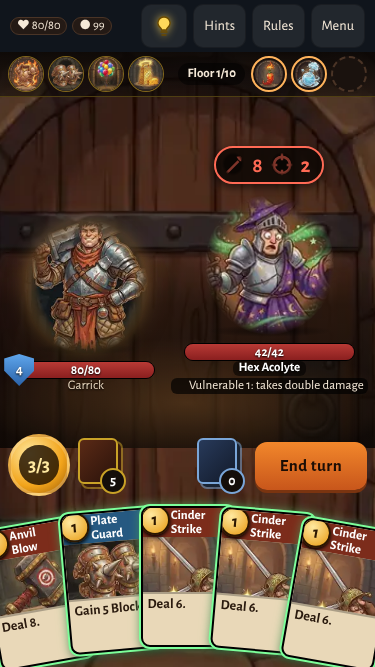
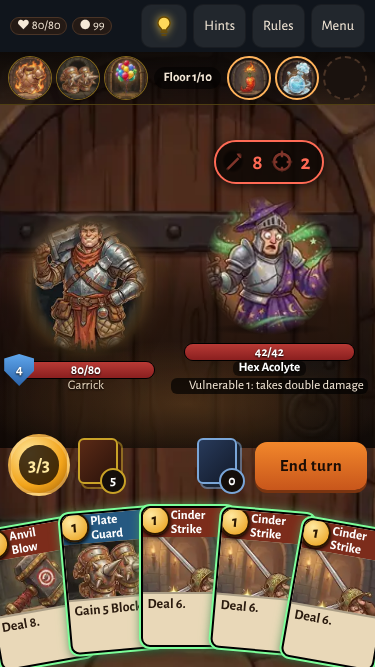
Emberclimb G3 round 2: 44px targets, potion Drink/Discard, upgrade preview, readable shop tiles, shorter tutorial, mid-act balance, boss phase 2
- relic, potion and intent targets 44px+ at 375x667 and 390x844 (new tools/probe-targets.js checks 11 screens)
- tapping a potion opens what it does + Drink (on a chosen foe if it targets) / Discard / Close; Discard is outside validMoves (logic rule 70)
- upgrade picker: tap a card to see it before and after, then Upgrade; 3-column grid on phones
- shop tiles show picture, name, type and cost, what it does, and price
- tutorial: 14 steps (was 29), 4 Next-only; the explanations moved into the doing steps
- later Encounter rooms keep one extra foe (D.STRONGX); act-1 boss HP 118-124; bench-newplayer.js reports the numbers
- bosses change to a second pattern at half HP with a Phase 2 banner, a re-planned intent and a name tag (logic rule 69)

Changed region(s): [[0.0, 0.06, 1.0, 0.1799], [0.5573, 0.2099, 0.88, 0.2999]]

diff --git a/games-src/emberclimb/src/ui.js b/games-src/emberclimb/src/ui.js
@@ -98,6 +98,7 @@
         case 'blk': SFX('block'); fxAt(f.w, 'fx-block-burst'); numAt(f.w, f.n, 'blk', 'Block'); break;
         case 'heal': SFX('heal'); fxAt(f.w, 'fx-heal-sparkle'); numAt(f.w, f.n, 'heal', 'HP'); break;
         case 'buff': if (f.x === 'str') fxAt(f.w, 'fx-fire-burst'); SFX('buff'); popAt(f.w, f.x === 'str' ? '+' + f.n + ' Strength' : f.x === 'spikes' ? 'Spikes ' + f.n : f.x === 'nrg' ? '+' + f.n + ' Energy' : 'Power!', 'buf'); break;
+        case 'phase': (function () { var ed = D.ENEMIES[f.x] || {}, o0 = document.querySelector('.ec-phase'); if (o0) o0.remove(); var d = h('div', 'ec-phase', null, [h('b', '', 'Phase 2'), h('span', '', ed.name + ' ' + (ed.ph2 || 'changes its moves') + '. Watch its new intent!')]); d.setAttribute('role', 'status'); document.body.appendChild(d); SFX('crit'); shakeEl(el, 120); setTimeout(function () { if (d.parentNode) d.remove(); }, 2600); })(); break;
         case 'debuff': popAt(f.w, (f.x === 'poison' ? 'Poison' : f.x === 'vuln' ? 'Vulnerable' : 'Weak') + (f.n ? ' ' + f.n : ''), 'deb'); break;
         case 'die': if (window.ANIM) { var d = h('div', 'pop die', '🎲 ' + f.n); d.appendChild(A('die-' + f.n, '', { noph: 1, cls: 'dieart' })); d.style.left = '40%'; d.style.top = '36%'; document.body.appendChild(d); setTimeout(function () { d.remove(); }, 1000); } break;
         case 'act': if (f.x === 'atk' && el && window.ANIM) { el.classList.add('lunge'); setTimeout(function () { el.classList.remove('lunge'); }, 480); } break;
@@ -184,6 +185,7 @@
     if (g.scr === 'map') mapScr(); else if (g.scr === 'battle') battle(); else if (g.scr === 'reward') reward();
     else if (g.scr === 'rest') rest(); else if (g.scr === 'shop') shop(); else if (g.scr === 'event') event(); else if (g.scr === 'over') over();
     if (UI.ov) overlay();
+    if (UI.potSel == null) UI.potSel = -1; potPop();
     dock(g);
     if (UI.lastScr !== g.scr) { if (g.scr === 'reward' || (g.scr === 'over' && g.won)) SFX('win'); else if (g.scr === 'over') SFX('lose'); UI.lastScr = g.scr; }
     if (UI.camp && UI.bossLine && g.scr === 'reward' && g.map[g.at] && g.map[g.at].t === 'b' && UI.bossPost !== g.at + ':' + g.floor && !(window.GXT && GXT.active())) { UI.bossPost = g.at + ':' + g.floor; UI.bossLine('post'); }
@@ -269,7 +271,7 @@
     for (var i = 0; i < g.pslots; i++) (function (i) {
       var id = g.pots[i];
       if (!id) { p.appendChild(h('span', 'pot', '')); return; }
-      var b = h('button', 'pot full', null, [A('pot-' + id, D.POTIONS[id].name, { ph: '#5a8a5a' })]); b.setAttribute('aria-label', D.POTIONS[id].name); on(b, function () { usePot(i); }); p.appendChild(b);
+      var b = h('button', 'pot full', null, [A('pot-' + id, D.POTIONS[id].name, { ph: '#5a8a5a' })]); b.setAttribute('aria-label', D.POTIONS[id].name); if (UI.potSel === i) b.classList.add('sel'); on(b, function () { UI.potSel = UI.potSel === i ? -1 : i; render(); }); p.appendChild(b);
     })(i);
     return p;
   }
@@ -434,7 +436,7 @@
       x.appendChild(A('enemy-' + (d.img || e.id), d.name, { ph: '#6a3a2a' })); if (e.spk) x.appendChild(h('div', 'spkchip', 'Spikes ' + e.spk));
       if (b.ph === 'e' && UI.actor === i) x.classList.add('acting');
       if (e.blk) x.appendChild(h('div', 'blkchip', '🛡' + e.blk));
-      x.appendChild(h('div', 'nm', d.name));
+      x.appendChild(h('div', 'nm', d.name + (e.ph2 ? ' · Phase 2' : '')));
       x.appendChild(h('div', 'bar', null, [h('i'), h('b', '', e.hp + '/' + e.mhp)])); x.querySelector('.bar i').style.width = (100 * e.hp / e.mhp) + '%';
       if (SG && e.blk) x.querySelector('.bar').appendChild(h('span', 'w485shield', String(e.blk)));
       x.appendChild(stChips(e));
@@ -594,10 +596,23 @@
     });
   }
   function afterMove() { var g = G(); if (g.scr !== 'battle') { render(); } }
-  function usePot(i) {
+  // potion menu: what it does, then Drink (on a chosen foe if it targets) or Discard
+  function potPop() {
+    var g = G(), i = UI.potSel, id = g && g.pots[i]; var o0 = document.querySelector('.ec-potpop'); if (o0) o0.remove(); if (!id) { UI.potSel = -1; return; }
+    var P = D.POTIONS[id], inFight = g.scr === 'battle' && g.b && g.b.ph === 'p' && !UI.busy, d = h('div', 'ec-potpop'); d.setAttribute('role', 'dialog');
+    d.appendChild(h('b', '', P.name)); d.appendChild(h('span', '', P.t)); var row = h('div', 'row');
+    if (inFight && P.tgt) g.b.en.forEach(function (e, k) { if (e.dead) return; var b = on(h('button', 'btn potdrink', 'Drink on ' + D.ENEMIES[e.id].name), function () { UI.potSel = -1; usePot(i, k); }); row.appendChild(b); });
+    else if (inFight) row.appendChild(on(h('button', 'btn potdrink', 'Drink'), function () { UI.potSel = -1; usePot(i); }));
+    else row.appendChild(h('span', 'potnote', 'Drink it during a fight.'));
+    row.appendChild(on(h('button', 'btn alt potdisc', 'Discard'), function () { UI.potSel = -1; E.performMove({ t: 'toss', p: i }); render(); }));
+    row.appendChild(on(h('button', 'btn alt potclose', 'Close'), function () { UI.potSel = -1; render(); }));
+    d.appendChild(row); document.body.appendChild(d);
+  }
+  UI.potPop = potPop;
+  function usePot(i, k) {
     var g = G(); if (g.scr !== 'battle' || g.b.ph !== 'p') { toast('Use in a fight'); return; }
     var id = g.pots[i];
-    if (D.POTIONS[id].tgt) { var al = g.b.en.map(function (e, k) { return e.dead ? -1 : k; }).filter(function (k) { return k >= 0; }); E.performMove({ t: 'pot', p: i, e: al[0] }); }
+    if (D.POTIONS[id].tgt) { var al = g.b.en.map(function (e, k) { return e.dead ? -1 : k; }).filter(function (k) { return k >= 0; }); E.performMove({ t: 'pot', p: i, e: k != null && al.indexOf(k) >= 0 ? k : al[0] }); }
     else E.performMove({ t: 'pot', p: i });
     render();
   }
@@ -672,9 +687,18 @@
     if (/"(draw|nrg|scry|mir)"/.test(s)) return 'draw';
     return 'utility';
   }
-  function deckPicker(title, hi, filter, cb) {
-    var g = G(), ov = h('div', 'ov'); ov.appendChild(h('h2', '', title, [on(h('button', 'x', '✕'), function () { UI.ov = null; render(); })]));
-    var gr = h('div', 'grid'); g.hs[hi].deck.forEach(function (c, i) { if (!filter(c)) return; var el = cardEl(c); on(el, function () { cb(i); }); gr.appendChild(el); });
+  // deck picker; with up=1 a tap shows the card before and after the upgrade, and nothing changes until Upgrade is tapped
+  function deckPicker(title, hi, filter, cb, up) {
+    var g = G(), ov = h('div', 'ov'); ov.appendChild(h('h2', '', title, [on(h('button', 'x', '✕'), function () { UI.ov = null; UI.pickSel = -1; render(); })]));
+    var ps = UI.pickSel != null ? UI.pickSel : -1, pc = up && ps >= 0 ? g.hs[hi].deck[ps] : null;
+    if (up) {
+      var pv = h('div', 'ec-upv');
+      if (pc) { var a0 = cardEl(pc), a1 = cardEl({ id: pc.id, u: 1 }); pv.appendChild(a0); pv.appendChild(h('span', 'arr', '→')); pv.appendChild(a1);
+        var ok = on(h('button', 'btn', 'Upgrade ' + D.CARDS[pc.id].name), function () { UI.pickSel = -1; cb(ps); }); ok.id = 'upg-ok'; pv.appendChild(ok); }
+      else pv.appendChild(h('div', 'sub', 'Tap a card to see it upgraded.'));
+      ov.appendChild(pv);
+    }
+    var gr = h('div', 'grid'); g.hs[hi].deck.forEach(function (c, i) { if (!filter(c)) return; var el = cardEl(c); if (up && i === ps) el.classList.add('sel'); on(el, function () { if (up) { UI.pickSel = i; render(); } else cb(i); }); gr.appendChild(el); });
     ov.appendChild(gr); return ov;
   }
   function rest() {
@@ -694,11 +718,12 @@
     g.shop.items.forEach(function (x, i) {
       var nm = x.t === 'card' ? D.CARDS[x.id].name : x.t === 'relic' ? D.RELICS[x.id].name : D.POTIONS[x.id].name;
       var art = x.t === 'card' ? A(x.id, nm, { ph: TONE[D.CARDS[x.id].hero] }) : x.t === 'relic' ? A('relic-' + x.id, nm, { ph: '#8a6a2a' }) : A('pot-' + x.id, nm, { ph: '#5a8a5a' });
-      var b = h('button', 'item' + (x.sold ? ' sold' : '') + (g.gold < x.p ? ' poor' : ''), null, [art, h('span', '', nm), h('span', 'price', '● ' + x.p)]);
+      var ds = x.t === 'card' ? E.lines(E.eff({ id: x.id, u: 0 })).join(' ') : x.t === 'relic' ? D.RELICS[x.id].t : D.POTIONS[x.id].t, ty = x.t === 'card' ? ({ A: 'Attack', S: 'Skill', P: 'Power' })[D.CARDS[x.id].type] || 'Card' : x.t === 'relic' ? 'Relic' : 'Potion';
+      var b = h('button', 'item shoptile t-' + x.t + (x.sold ? ' sold' : '') + (g.gold < x.p ? ' poor' : ''), null, [art, h('b', 'stn', nm), h('i', 'sty', ty + (x.t === 'card' ? ' · cost ' + D.CARDS[x.id].cost : '')), h('span', 'sds', x.sold ? 'Sold' : ds), h('span', 'price', '● ' + x.p)]); b.setAttribute('aria-label', nm + ', ' + ty + ', ' + ds + ', ' + x.p + ' gold');
       if (UI.shopSel === i) b.classList.add('picked');
       on(b, function () { UI.shopSel = i; render(); }); it.appendChild(b);
     });
-    var rm = on(h('button', 'item' + (g.shop.removed ? ' sold' : ''), null, [A('icon-remove', '✂', { ph: '#7a3a3a' }), h('span', '', 'Remove a card'), h('span', 'price', '● ' + g.shop.rm)]), function () { if (g.gold < g.shop.rm) { toast('Not enough gold'); return; } UI.ov = 'remove'; render(); });
+    var rm = on(h('button', 'item shoptile t-rm' + (g.shop.removed ? ' sold' : ''), null, [A('icon-remove', '✂', { ph: '#7a3a3a' }), h('b', 'stn', 'Remove a card'), h('i', 'sty', 'Service'), h('span', 'sds', g.shop.removed ? 'Done' : 'Take one card out of your deck.'), h('span', 'price', '● ' + g.shop.rm)]), function () { if (g.gold < g.shop.rm) { toast('Not enough gold'); return; } UI.ov = 'remove'; render(); });
     it.appendChild(rm); s.appendChild(it);
     var sx = g.shop.items[UI.shopSel];
     if (sx && !sx.sold) {
@@ -779,9 +804,9 @@
       ov = h('div', 'ov'); ov.appendChild(h('h2', '', UI.ov === 'deck' ? 'Your deck' : UI.ov === 'draw' ? 'Draw pile' : 'Discard pile', [on(h('button', 'x', '✕'), close)]));
       var gg = h('div', 'grid'), cards = []; if (UI.ov === 'deck') g.hs.forEach(function (x) { cards = cards.concat(x.deck); }); else { var cu = g.hs[g.b.cur]; cards = UI.ov === 'draw' ? cu.draw.slice().sort(function (a, b) { return a.id < b.id ? -1 : 1; }) : cu.disc; }
       cards.forEach(function (c) { gg.appendChild(cardEl(c)); }); ov.appendChild(gg);
-    } else if (UI.ov === 'smith') { var hi = g.rest.todo[0]; ov = deckPicker('Upgrade which card?', hi, function (c) { return !c.u && D.CARDS[c.id].ops.length && D.CARDS[c.id].hero !== 'z'; }, function (i) { E.performMove({ t: 'upg', h: hi, c: i }); UI.ov = null; render(); }); }
+    } else if (UI.ov === 'smith') { var hi = g.rest.todo[0]; ov = deckPicker('Upgrade which card?', hi, function (c) { return !c.u && D.CARDS[c.id].ops.length && D.CARDS[c.id].hero !== 'z'; }, function (i) { E.performMove({ t: 'upg', h: hi, c: i }); UI.ov = null; render(); toast('Upgraded ' + D.CARDS[G().hs[hi].deck[i].id].name + '+', 2200); }, 1); }
     else if (UI.ov === 'remove') { ov = h('div', 'ov'); ov.appendChild(h('h2', '', 'Remove which card?', [on(h('button', 'x', '✕'), close)])); var gr2 = h('div', 'grid'); g.hs.forEach(function (x, hi) { x.deck.forEach(function (c, i) { var el = cardEl(c); on(el, function () { E.performMove({ t: 'remove', h: hi, c: i }); UI.ov = null; render(); }); gr2.appendChild(el); }); }); ov.appendChild(gr2); }
-    else if (UI.ov === 'evpick') { ov = deckPicker(g.evn.pend === 'rem' ? 'Remove which card?' : 'Upgrade which card?', 0, function (c) { return g.evn.pend === 'rem' || (!c.u && D.CARDS[c.id].ops.length); }, function (i) { E.performMove({ t: 'evpick', c: i }); UI.ov = null; render(); }); }
+    else if (UI.ov === 'evpick') { ov = deckPicker(g.evn.pend === 'rem' ? 'Remove which card?' : 'Upgrade which card?', 0, function (c) { return g.evn.pend === 'rem' || (!c.u && D.CARDS[c.id].ops.length); }, function (i) { E.performMove({ t: 'evpick', c: i }); UI.ov = null; render(); }, g.evn.pend !== 'rem' && g.evn.pend !== 'xform'); }
     if (ov) { ov.addEventListener('click', function (e) { if (e.target === ov) close(); }); app.appendChild(ov); }
   }
   document.addEventListener('keydown', function (e) { if (e.key === 'Escape' && UI.ov) { UI.ov = null; render(); } });

diff --git a/games-src/emberclimb/src/tutor.js b/games-src/emberclimb/src/tutor.js
@@ -106,40 +106,25 @@
   function node(t) { return function () { return $('#map .node.t-' + t); }; }
   function goldEl() { var xs = document.querySelectorAll('.reward .chip'); for (var i = 0; i < xs.length; i++) if (/gold/.test(xs[i].textContent)) return xs[i]; return null; }
   // Every core rule in order, one line of 12 words or fewer, one highlighted tap each. ids = the rule keys tools/tut-walk.js checks.
-  var RULES = ['goal', 'intent', 'energy', 'draw', 'vuln', 'vulnx2', 'block', 'endturn', 'discard', 'blockreset', 'pattern', 'strength', 'exhaust', 'weak', 'potion', 'keywords', 'finish', 'gold', 'reward', 'deck', 'map', 'rest', 'shop', 'event', 'elite', 'boss', 'acts', 'go'];
+  var RULES = ['intent', 'energy', 'vuln', 'block', 'endturn', 'pattern', 'strength', 'exhaust', 'potion', 'finish', 'reward', 'leave', 'map', 'go'];   // G3 r2: mostly doing steps, 4 Next-only lines
   function steps() {
     var tap = function (id, n) { return { type: 'tap', times: n || 2, match: function (a) { return a.w === 'card' && a.id === id; } }; };
     var info = function (id, target, say, ready, side) { return { id: id, title: 'Warden Ashgrove', target: target, say: say, wait: null, ready: ready || battleP, side: side }; };
     var en = function () { return $('.en'); }, intent = function () { return $('.en .intent') || $('.en'); };
     return [
-      info('goal', en, 'Goal: climb the tower and beat the boss at the top.'),
-      info('intent', intent, 'This icon shows its next move: a bite for 5.'),
-      info('energy', function () { return $('.energy') || $('#end'); }, 'You get 3 energy every turn. Cards cost energy.'),
-      info('draw', function () { return $('.hand'); }, 'You draw 5 cards at the start of every turn.', null, 'top'),
-      { id: 'vuln', title: 'Attack', target: function () { return cardEl('w-hammer'); }, say: 'Tap Anvil Blow twice: 8 damage and Vulnerable.', wait: tap('w-hammer'), ready: battleP },
-      info('vulnx2', en, 'Vulnerable: it takes double damage from your hits.'),
-      { id: 'block', title: 'Block', target: function () { return cardEl('w-defend'); }, say: 'Tap Plate Guard twice. Block stops the bite.', wait: tap('w-defend'), ready: battleP },
-      { id: 'endturn', title: 'End turn', target: function () { return $('#end'); }, endOk: 1, onEnter: function () { setTimeout(function () { UI.render(); }, 30); }, say: 'Energy spent. Tap End turn, then the foe acts.', wait: { type: 'tap', match: function (a) { return a.w === 'end'; } }, ready: battleP },
-      info('discard', function () { return $('#discpile'); }, 'Your leftover cards went to the discard pile.', turn2),
-      info('blockreset', function () { return $('.heropan') || $('.hfig'); }, 'Your Block is gone. Block lasts one turn only.', turn2),
-      info('pattern', intent, 'Foes repeat a pattern. Next it bites and makes you Weak.', turn2),
+      info('intent', intent, 'Goal: beat the boss on top. This icon is its next move.'),
+      info('energy', function () { return $('.energy') || $('#end'); }, 'Each turn: 3 energy and 5 new cards. Cards cost energy.'),
+      { id: 'vuln', title: 'Attack', target: function () { return cardEl('w-hammer'); }, say: 'Tap Anvil Blow twice. Vulnerable: it takes double damage.', wait: tap('w-hammer'), ready: battleP },
+      { id: 'block', title: 'Block', target: function () { return cardEl('w-defend'); }, say: 'Tap Plate Guard twice. Block soaks hits, this turn only.', wait: tap('w-defend'), ready: battleP },
+      { id: 'endturn', title: 'End turn', target: function () { return $('#end'); }, endOk: 1, onEnter: function () { setTimeout(function () { UI.render(); }, 30); }, say: 'Tap End turn. Leftover cards go to the discard pile.', wait: { type: 'tap', match: function (a) { return a.w === 'end'; } }, ready: battleP },
+      info('pattern', intent, 'Foes repeat a pattern. Next: a bite that makes you Weak.', turn2),
       { id: 'strength', title: 'Power', target: function () { return cardEl('w-kindle'); }, say: 'Tap Kindle twice. Strength adds 2 to every hit.', wait: tap('w-kindle'), ready: turn2 },
-      { id: 'exhaust', title: 'Exhaust', target: function () { return cardEl('w-roar'); }, say: 'Tap the Roar twice. Exhaust cards leave for this fight.', wait: tap('w-roar'), ready: turn2 },
-      info('weak', en, 'Weak: each of its hits deals 3 less damage.', turn2),
-      { id: 'potion', title: 'Potion', target: function () { return $('.pot.full'); }, say: 'Tap the potion. Poison hurts every turn, through Block.', wait: { type: 'event', match: function (a) { return a.pots === 0; } }, ready: turn2 },
-      info('keywords', function () { return $('#drawpile'); }, 'Ethereal cards fade at turn end. Retain cards stay in hand.', turn2),
+      { id: 'exhaust', title: 'Weak', target: function () { return cardEl('w-roar'); }, say: 'Tap the Roar twice. Weak foes hit 3 less. Roar exhausts.', wait: tap('w-roar'), ready: turn2 },
+      { id: 'potion', title: 'Potion', target: function () { return $('.ec-potpop .potdrink') || $('.pot.full'); }, say: 'Tap the potion, then Drink. Poison hurts through Block.', wait: { type: 'event', match: function (a) { return a.pots === 0; } }, ready: turn2 },
       { id: 'finish', title: 'Finish it', target: function () { return cardEl('w-strike'); }, say: 'Tap each Strike twice to finish it.', wait: tap('w-strike', 4), ready: turn2 },
-      info('gold', goldEl, 'Each win gives gold. Spend it at shops.', scr('reward')),
-      { id: 'reward', title: 'Card reward', target: function () { return $('.picks .card') && $('.picks .card').parentNode; }, say: 'Pick 1 of 3 cards, or Skip to keep it lean.', wait: { type: 'tap', match: function (a) { return a.w === 'pick'; } }, ready: scr('reward') },
-      info('deck', function () { return $('#leave'); }, 'Your deck grew to 11 cards. Upgrades make cards stronger.', scr('reward')),
+      { id: 'reward', title: 'Card reward', target: function () { return $('.picks .card') && $('.picks .card').parentNode; }, say: 'Gold won! Pick 1 of 3 cards for your deck.', wait: { type: 'tap', match: function (a) { return a.w === 'pick'; } }, ready: scr('reward') },
       { id: 'leave', title: 'Onward', target: function () { return $('#leave'); }, say: 'Tap Continue to climb.', wait: { type: 'event', match: function (a) { return a.scr === 'map'; } }, ready: scr('reward') },
-      info('map', function () { return $('#map'); }, 'Paths branch. Each row is one floor higher.', scr('map')),
-      info('rest', node('r'), 'Campfire: rest to heal, or upgrade one card.', scr('map')),
-      info('shop', node('s'), 'Shop: buy cards, relics, potions, or remove a card.', scr('map')),
-      info('event', node('v'), 'Question mark: an event with a choice to make.', scr('map')),
-      info('elite', node('e'), 'Elite: a tough foe that drops a relic.', scr('map')),
-      info('boss', node('b'), 'The act boss waits on top. Beat it, pick a relic.', scr('map')),
-      info('acts', node('b'), 'A full run is three acts, each with its own boss.', scr('map')),
+      info('map', function () { return $('#map'); }, 'Rooms: fights, elites, rest, shop, events. The boss waits on top.', scr('map')),
       { id: 'go', title: 'Your climb', target: function () { return $('#map .node.glow'); }, also: function () { return [].slice.call(document.querySelectorAll('#map .node.glow')).slice(1); }, say: 'Tap a glowing room. The run is yours now.', wait: { type: 'event', match: function (a) { return a.scr !== 'map'; } }, ready: scr('map') },
       { id: 'free', title: 'Your climb', target: function () { return $('#app'); }, say: 'Your climb now.', wait: null, ready: function () { return true; },
         onEnter: function () { setTimeout(function () { try { GXT.stop(); } catch (e) { } C.on = true; ['intent', 'vuln', 'energy', 'block', 'endturn', 'weak', 'poison', 'strength', 'power', 'exhaust', 'potion', 'reward', 'gold', 'map', 'rest', 'shop', 'event', 'elite', 'boss', 'acts', 'relic'].forEach(function (k) { C.seen[k] = 1; }); UI.render(); }, 60); } }

diff --git a/games-src/emberclimb/src/data.js b/games-src/emberclimb/src/data.js
@@ -147,10 +147,10 @@ var EC = (typeof EC !== 'undefined') ? EC : {};
     'thorn-brute': { name: 'Thorn Brute', hp: [80, 86], pat: [{ str: 2 }, { atk: 14 }, { atk: 8, vuln: 2 }], onSkill: 2, elite: 1, art: 'bark-skinned hulking brute with thorns and a horned skull' },
     'sleeper-statue': { name: 'Sleeper Statue', hp: [78, 84], sleep: 3, pat: [{ atk: 16 }, { atk: 16 }, { weak: 2, vuln: 1 }], elite: 1, art: 'mossy stone statue of a seated giant with one eye opening' },
     'iron-warden': { name: 'Iron Warden', hp: [36, 40], pat: [{ atk: 9 }, { add: ['dazed', 2] }, { atk: 6, blk: 6 }], elite: 1, art: 'tall slim iron sentry with a lantern head' },
-    'warden-captain': { name: 'Warden Captain', hp: [56, 60], pat: [{ atk: 11 }, { blk: 10, spikes: 7 }, { atk: 22 }], boss: 1, art: 'iron sentry captain in spiked plate with a lantern helm' },
-    'mire-behemoth': { name: 'Mire Behemoth', hp: [132, 140], pat: [{ atk: 9, add: ['slimed', 2] }, { blk: 12, str: 2 }, { atk: 22 }, { atk: 7, hits: 2, all: 1 }], boss: 1, art: 'colossal swamp creature of mud and reeds with a wide mouth' },
-    'ashen-wraith': { name: 'Ashen Wraith', hp: [124, 130], pat: [{ add: ['burn', 1], atk: 6, all: 1 }, { die: [{ blk: 10, str: 2 }, { atk: 5, hits: 2 }, { atk: 6, hits: 3 }] }], boss: 1, art: 'tall ghost of burnt cloth and ash with six floating candles' },
-    'gate-colossus': { name: 'Gate Wyrm', hp: [138, 146], pat: [{ atk: 9, hits: 2 }, { blk: 16 }, { atk: 24, vuln: 2 }, { str: 3, blk: 8 }], boss: 1, art: 'green horned wyrm bursting out of a dungeon gate' },
+    'warden-captain': { name: 'Warden Captain', hp: [56, 60], pat: [{ atk: 11 }, { blk: 10, spikes: 7 }, { atk: 22 }], pat2: [{ atk: 8, hits: 2 }, { blk: 8, str: 2 }], ph2: 'cracks its plate and fights wild', boss: 1, art: 'iron sentry captain in spiked plate with a lantern helm' },
+    'mire-behemoth': { name: 'Mire Behemoth', hp: [118, 124], pat: [{ atk: 9, add: ['slimed', 2] }, { blk: 12, str: 2 }, { atk: 22 }, { atk: 7, hits: 2, all: 1 }], pat2: [{ atk: 12, add: ['slimed', 1] }, { atk: 6, hits: 3 }, { blk: 10, str: 2 }], ph2: 'splits its hide and lashes out', boss: 1, art: 'colossal swamp creature of mud and reeds with a wide mouth' },
+    'ashen-wraith': { name: 'Ashen Wraith', hp: [124, 130], pat: [{ add: ['burn', 1], atk: 6, all: 1 }, { die: [{ blk: 10, str: 2 }, { atk: 5, hits: 2 }, { atk: 6, hits: 3 }] }], pat2: [{ atk: 5, hits: 3, add: ['burn', 1] }, { blk: 12, str: 2 }], ph2: 'flares up, all six candles blazing', boss: 1, art: 'tall ghost of burnt cloth and ash with six floating candles' },
+    'gate-colossus': { name: 'Gate Wyrm', hp: [138, 146], pat: [{ atk: 9, hits: 2 }, { blk: 16 }, { atk: 24, vuln: 2 }, { str: 3, blk: 8 }], pat2: [{ atk: 12, hits: 2 }, { str: 3, blk: 12 }, { atk: 28, vuln: 2 }], ph2: 'tears free of the gate', boss: 1, art: 'green horned wyrm bursting out of a dungeon gate' },
     // act 2 (Ash Stair) and act 3 (Cinder Gate) encounter decks, act 4 = the optional final act
     'cinder-hound': { name: 'Cinder Hound', hp: [30, 34], pat: [{ atk: 5, hits: 2 }, { atk: 8, add: ['burn', 1] }, { blk: 6, str: 1 }], act: 2, art: 'lean black hound with ember-cracked skin and smoking jaws' },
     'ash-wisp': { name: 'Ash Wisp', hp: [20, 24], pat: [{ atk: 4, frail: 2 }, { atk: 7 }, { die: [{ blk: 8 }, { atk: 6, frail: 1 }, { atk: 10 }] }], act: 2, art: 'floating grey wisp of ash with two coal eyes' },
@@ -159,7 +159,7 @@ var EC = (typeof EC !== 'undefined') ? EC : {};
     'grave-knight': { name: 'Grave Knight', hp: [44, 48], pat: [{ atk: 10 }, { blk: 12 }, { atk: 7, hits: 2 }], act: 3, art: 'rusted skeleton knight with a cracked tower shield' },
     'bone-caller': { name: 'Bone Caller', hp: [30, 34], pat: [{ atk: 6, add: ['wound', 1] }, { die: [{ str: 2 }, { atk: 9 }, { atk: 5, hits: 3 }] }], act: 3, art: 'hunched necromancer rattling a staff of bones' },
     'tomb-king': { name: 'Tomb King', hp: [120, 128], pat: [{ atk: 12, frail: 2 }, { blk: 14, str: 2 }, { atk: 7, hits: 3 }, { atk: 8, add: ['dazed', 2] }], elite: 1, act: 3, art: 'bandaged king rising from a stone sarcophagus in dust' },
-    'ember-tyrant': { name: 'Ember Tyrant', hp: [210, 220], pat: [{ atk: 10, all: 1, add: ['burn', 2] }, { str: 3, blk: 20 }, { atk: 8, hits: 3 }, { atk: 30, vuln: 2 }], boss: 1, act: 4, art: 'horned fire demon striding out of a burning archway' }
+    'ember-tyrant': { name: 'Ember Tyrant', hp: [210, 220], pat: [{ atk: 10, all: 1, add: ['burn', 2] }, { str: 3, blk: 20 }, { atk: 8, hits: 3 }, { atk: 30, vuln: 2 }], pat2: [{ atk: 12, all: 1, add: ['burn', 2] }, { atk: 9, hits: 3 }, { str: 4, blk: 24 }], ph2: 'erupts in a pillar of fire', boss: 1, act: 4, art: 'horned fire demon striding out of a burning archway' }
   };
   var ENC = {
     weak: [['mire-slug', 'gnawer'], ['rust-tick', 'rust-tick'], ['gape-grub'], ['hex-acolyte']],
@@ -223,6 +223,6 @@ var EC = (typeof EC !== 'undefined') ? EC : {};
     'back-alley-gambler': { name: 'Back Alley Gambler', q: 'A grin and a pair of dice.', art: 'hooded gambler at a barrel table with dice', o: [{ t: 'Bet 30 gold, roll', roll: [{ gold: -30 }, { gold: -30 }, { gold: 0 }, { gold: 0 }, { gold: 60 }, { gold: 90 }], cost: 30 }, { t: 'Walk away', do: {} }] }
   };
   var NODES = { m: 'Monster', e: 'Elite', r: 'Rest', s: 'Shop', v: 'Event', t: 'Treasure', b: 'Boss' };
-  EC.D = { SCALE: SCALE, CAPS: CAPS, EHP: EHP, CARDS: CARDS, ORDER: ORDER, H: H, ENEMIES: ENEMIES, ENC: ENC, ENCA: ENCA, ACTBOSS: ACTBOSS, RELICS: RELICS, POTIONS: POTIONS, EVENTS: EVENTS, NODES: NODES, needsTarget: needsTarget };
+  EC.D = { STRONGX: 1, STRONGHP: 1, SCALE: SCALE, CAPS: CAPS, EHP: EHP, CARDS: CARDS, ORDER: ORDER, H: H, ENEMIES: ENEMIES, ENC: ENC, ENCA: ENCA, ACTBOSS: ACTBOSS, RELICS: RELICS, POTIONS: POTIONS, EVENTS: EVENTS, NODES: NODES, needsTarget: needsTarget };
   if (typeof module !== 'undefined') module.exports = EC;
 })();

diff --git a/games-src/emberclimb/src/engine.js b/games-src/emberclimb/src/engine.js
@@ -190,6 +190,7 @@
       e.hp -= real; e.asleep = 0;
       if (h.pw.envenom) addPoison(e, h.pw.envenom);
       if (e.hp <= 0) { e.hp = 0; e.dead = 1; fx('kill', 'e' + G.b.en.indexOf(e), 0); }
+      phaseCheck(e);
     }
   }
   function losePoisonKill(e) { if (e.hp <= 0) { e.hp = 0; e.dead = 1; fx('kill', 'e' + G.b.en.indexOf(e), 0); } }
@@ -208,7 +209,7 @@
   }
   function hitRaw(e, d) {
     if (e.dead || d <= 0) return; var a = Math.min(e.blk, d); e.blk -= a; var real = d - a; fx('dmg', 'e' + G.b.en.indexOf(e), d, '');
-    if (real > 0) { e.hp -= real; e.asleep = 0; if (e.hp <= 0) { e.hp = 0; e.dead = 1; fx('kill', 'e' + G.b.en.indexOf(e), 0); } }
+    if (real > 0) { e.hp -= real; e.asleep = 0; if (e.hp <= 0) { e.hp = 0; e.dead = 1; fx('kill', 'e' + G.b.en.indexOf(e), 0); } phaseCheck(e); }
   }
   function setStance(h, s) {
     if (h.stance === s) return; if (h.stance === 'c') gainEn(h, 2); h.stance = s; fx('stance', 'h' + G.hs.indexOf(h), 0, s);
@@ -258,25 +259,33 @@
     return { id: id, hp: hp, mhp: hp, blk: 0, st: {}, i: -1, intent: null, asleep: d.sleep || 0, dead: 0, acted: 0, spk: 0, row: 0 };
   }
   function plan(e) {
-    var d = D.ENEMIES[e.id], step;
+    var d = D.ENEMIES[e.id], step, pat = (e.ph2 && d.pat2) || d.pat;
     if (e.asleep > 0) { e.intent = { sleep: 1 }; return; }
-    if (d.mode === 'rand') { var k; do { k = ri(d.pat.length); } while (k === e.i && d.pat.length > 1); e.i = k; }
-    else e.i = (e.i + 1) % d.pat.length;
-    step = d.pat[e.i]; var dn = 0;
+    if (d.mode === 'rand') { var k; do { k = ri(pat.length); } while (k === e.i && pat.length > 1); e.i = k; }
+    else e.i = (e.i + 1) % pat.length;
+    step = pat[e.i]; var dn = 0;
     if (step.die) { dn = G.b.die || 1; step = step.die[dn <= 2 ? 0 : dn <= 4 ? 1 : 2]; }
     e.intent = JSON.parse(JSON.stringify(step)); if (dn) e.intent.die = dn;
     var tg = e.row; if (!G.hs[tg] || G.hs[tg].dead) tg = G.hs.indexOf(aliveHs()[0]); e.intent.tg = tg;
+  }
+  // boss phase 2: at half HP a boss with a second pattern changes phase once; its next move is re-planned at once so the new intent shows
+  function phaseCheck(e) {
+    var d = D.ENEMIES[e.id]; if (!d || !d.pat2 || e.ph2 || e.dead || e.hp > e.mhp / 2) return;
+    e.ph2 = 1; e.i = -1; plan(e); fx('phase', 'e' + G.b.en.indexOf(e), 0, e.id);
   }
   function startBattle(kind) {
     var P = (G.act > 1 && D.ENCA[G.act]) || D.ENC, pool = kind === 'e' ? P.elite : kind === 'b' ? [[G.boss]] : (G.fights < 3 ? P.weak : P.strong);
     var ids = pool[ri(pool.length)].slice();
     if (kind !== 'e' && kind !== 'b') {   // an Encounter room has one enemy per hero: trim a bigger group, top a smaller one up from another group of the same pool
-      while (ids.length > G.hs.length) ids.pop();
+      var cap = G.hs.length + (kind === 'm' && G.fights >= 3 && D.STRONGX ? D.STRONGX : 0);   // G3 r2 balance: later Encounter rooms keep one extra foe
+      while (ids.length > cap) ids.pop();
       for (var gt = 0; ids.length < G.hs.length && gt < 20; gt++) { var og = pool[ri(pool.length)]; if (og[0]) ids.push(og[0]); }
     }
     resetCombat();
     G.b = { en: ids.map(mkEnemy), turn: 0, ph: 'p', cur: 0, kind: kind, die: 0, scry: null };
     G.b.en.forEach(function (e, i) { e.row = i % G.hs.length; });
+    // G3 r2 balance: the later Encounter rooms of an act (after the first 3 fights) have tougher foes (x D.STRONGHP HP), so floors 4-9 are not trivial
+    if (kind === 'm' && G.fights >= 3 && D.STRONGHP) G.b.en.forEach(function (e) { e.hp = e.mhp = Math.round(e.mhp * D.STRONGHP); });
     G.scr = 'battle'; G.fights++;
     G.hs.forEach(function (h) {
       if (h.dead) return;
@@ -335,7 +344,7 @@
   }
   // tabletop poison: at the end of the heroes' turn each poisoned enemy loses 1 HP per token (ignores Block); tokens stay until it dies
   function tickPoison() {
-    alive().forEach(function (e) { var p = e.st.poison || 0; if (p > 0) { e.hp -= p; fx('dmg', 'e' + G.b.en.indexOf(e), p, 'poison'); losePoisonKill(e); } });
+    alive().forEach(function (e) { var p = e.st.poison || 0; if (p > 0) { e.hp -= p; fx('dmg', 'e' + G.b.en.indexOf(e), p, 'poison'); losePoisonKill(e); phaseCheck(e); } });
     if (!alive().length) winBattle();
   }
   // one enemy acts per call; returns true while enemy phase continues
@@ -542,6 +551,7 @@
     return m;
   }
   function performMove(mv) {
+    if (G && mv && mv.t === 'toss') { if (!G.pots[mv.p]) return false; G.pots.splice(mv.p, 1); return true; }   // discard a potion (any screen); kept out of validMoves so bots never throw potions away
     if (!G) return false; var ok = validMoves().some(function (v) { return JSON.stringify(v) === JSON.stringify(mv); }); if (!ok) return false;
     switch (mv.t) {
       case 'go': enterNode(mv.n); break;

diff --git a/games-src/emberclimb/tools/probe-targets.js b/games-src/emberclimb/tools/probe-targets.js
@@ -1,0 +1,35 @@
+// G3 r2: every visible tap target is at least 44x44 CSS px on each main screen, at 375x667 and 390x844 (touch).
+// Also writes shots of the potion menu, upgrade preview, shop and boss phase 2 to playable-shots/g3/. Run: node tools/probe-targets.js
+const { chromium } = require('playwright'), path = require('path'), fs = require('fs'), { serve, sleep } = require('./tap-lib');
+const OUT = path.join(__dirname, '..', 'playable-shots', 'g3'); fs.mkdirSync(OUT, { recursive: true });
+const SCREENS = {
+  title: () => { UI.mode = 'title'; UI.render(); },
+  map: () => { EC.E.newGame({ heroes: ['w'], seed: 9 }); UI.mode = 'game'; UI.render(); },
+  battle: () => { EC.E.newGame({ heroes: ['w'], seed: 9 }); const g = EC.E.G(); g.pots = ['fire-flask', 'block-brew']; g.relics.push('iron-bangle', 'bag-of-marbles'); EC.E.performMove({ t: 'go', n: EC.E.validMoves()[0].n }); UI.mode = 'game'; UI.render(); },
+  potion: () => { UI.potSel = 0; UI.render(); },
+  reward: () => { EC.E.debug.win(); UI.render(); },
+  shop: () => { EC.E.newGame({ heroes: ['w'], seed: 9 }); EC.E.debug.shop(); UI.mode = 'game'; UI.render(); },
+  rest: () => { EC.E.newGame({ heroes: ['w'], seed: 9 }); EC.E.debug.rest(); UI.mode = 'game'; UI.render(); },
+  upgrade: () => { UI.ov = 'smith'; UI.pickSel = 0; UI.render(); },
+  event: () => { UI.ov = null; UI.pickSel = -1; EC.E.newGame({ heroes: ['w'], seed: 9 }); EC.E.debug.event('forge-spirit'); UI.mode = 'game'; UI.render(); },
+  boss: () => { EC.E.newGame({ heroes: ['w'], seed: 9 }); EC.E.debug.boss(); UI.mode = 'game'; const g = EC.E.G(); g.hs[0].hp = 999; g.hs[0].mhp = 999; const e = g.b.en[0]; e.hp = Math.floor(e.mhp / 2) + 3; e.blk = 0; g.hs[0].hand.push(EC.E.mk('w-strike')); g.hs[0].en = 3; UI.render(); },
+  over: () => { EC.E.newGame({ heroes: ['w'], seed: 9 }); EC.E.G().relics.push('iron-bangle', 'lantern'); EC.E.debug.over(0); UI.mode = 'game'; UI.render(); }
+};
+(async () => {
+  const { srv, base } = await serve(); const br = await chromium.launch({ executablePath: '/opt/pw-browsers/chromium', args: ['--no-sandbox'] }); let bad = 0;
+  for (const [w, hh] of [[375, 667], [390, 844]]) {
+    const ctx = await br.newContext({ viewport: { width: w, height: hh }, hasTouch: true, isMobile: true }); const pg = await ctx.newPage(); const errs = [];
+    pg.on('pageerror', e => errs.push(e.message));
+    await pg.goto(base); await pg.waitForSelector('#title'); await pg.evaluate(() => { try { GXT.markDone('emberclimb'); } catch (e) { } window.EC_NOSAVE = 1; });
+    for (const [k, fn] of Object.entries(SCREENS)) {
+      await pg.evaluate(fn); await sleep(700);
+      if (k === 'boss') { await sleep(2500); await pg.evaluate(() => { document.querySelectorAll('.gx-skip,.bossintro,.ec-bossv').forEach(e => e.remove()); const g = EC.E.G(); const i = g.hs[0].hand.length - 1; EC.E.performMove({ t: 'play', h: 0, c: i, e: 0 }); UI.render(); }); await sleep(400); }
+      const small = await pg.evaluate(() => { const out = []; document.querySelectorAll('button, [role=button], a[href], .node, .hand .card, .pot.full').forEach(e => { const r = e.getBoundingClientRect(); if (!r.width || !r.height || e.closest('[hidden]') || getComputedStyle(e).visibility === 'hidden' || r.bottom < 0 || r.top > innerHeight || r.right < 0 || r.left > innerWidth) return; if (e.disabled) return; if (r.width < 44 || r.height < 44) out.push((e.id ? '#' + e.id : e.className.toString().split(' ').slice(0, 2).join('.') || e.tagName) + ' ' + Math.round(r.width) + 'x' + Math.round(r.height)); }); return out; });
+      if (small.length) { bad++; console.log('FAIL', w + 'x' + hh, k, small.slice(0, 8).join(', ')); } else console.log('ok', w + 'x' + hh, k);
+      if (['potion', 'upgrade', 'shop', 'boss', 'map', 'battle'].includes(k)) await pg.screenshot({ path: path.join(OUT, k + '-' + w + '.png') });
+    }
+    if (errs.length) { bad++; console.log('page errors', errs.slice(0, 3)); }
+    await ctx.close();
+  }
+  await br.close(); srv.close(); console.log(bad ? 'TARGETS FAIL' : 'TARGETS PASS'); process.exit(bad ? 1 : 0);
+})();

diff --git a/games-src/emberclimb/src/head.html b/games-src/emberclimb/src/head.html
@@ -549,4 +549,26 @@ html body .card .ct{overflow-wrap:normal!important;word-break:normal!important;h
 html body .card .cl.stb{color:#1f6b1f;font-weight:800}
 /* G3: the result screen scrolls, so the relic row is never under the sticky Play again / Title bar */
 html body .over.res{justify-content:flex-start!important;overflow-y:auto!important;min-height:0;max-height:100%}
+.ec-phase{position:fixed;left:50%;top:30%;transform:translateX(-50%);z-index:60;min-width:min(320px,90vw);padding:12px 18px;border-radius:14px;background:rgba(40,8,4,.94);border:2px solid #ff6a3d;color:#fff;text-align:center;box-shadow:0 0 30px rgba(255,90,40,.6);pointer-events:none;animation:ecph .35s ease-out}
+.ec-phase b{display:block;font-family:'Cinzel',Georgia,serif;font-size:28px;color:#ffb36a;letter-spacing:.08em}.ec-phase span{display:block;font-size:16px;margin-top:4px}
+@keyframes ecph{from{transform:translateX(-50%) scale(.6);opacity:0}to{transform:translateX(-50%) scale(1);opacity:1}}
+.ec-potpop{position:fixed;left:50%;top:112px;transform:translateX(-50%);z-index:55;width:min(340px,calc(100vw - 32px));padding:12px 14px;border-radius:14px;background:rgba(20,14,10,.97);border:2px solid var(--ember2,#f2872b);color:#f5e9d8;box-shadow:0 8px 24px rgba(0,0,0,.7)}
+.ec-potpop b{display:block;font-size:18px}.ec-potpop>span{display:block;font-size:16px;margin:4px 0 10px}.ec-potpop .row{display:flex;flex-wrap:wrap;gap:8px}.ec-potpop .btn{min-height:44px;min-width:44px;font-size:16px;padding:8px 14px}.ec-potpop .potnote{font-size:15px;align-self:center;flex:1 0 100%}
+html body .pot.sel{outline:3px solid #fff;outline-offset:1px}
+/* G3 r2: upgrade preview (before -> after, then confirm) */
+.ec-upv{position:sticky;top:0;z-index:3;display:flex;flex-wrap:wrap;align-items:center;justify-content:center;gap:8px;padding:8px 0 10px;background:rgba(14,10,8,.96);border-bottom:1px solid rgba(201,162,39,.35)}
+.ec-upv .card{--cw:clamp(96px,28vw,150px)}.ec-upv .arr{font-size:28px;color:var(--ember2,#f2872b);font-weight:900}.ec-upv .btn{flex:1 0 100%;max-width:320px;min-height:48px}.ec-upv .sub{font-size:16px}
+.ov .grid .card.sel{outline:3px solid #fff;outline-offset:2px}
+/* G3 r2: readable shop tiles: picture, name, type, what it does, price; 2 columns on phones, every tile well over 44px */
+html body .reward .items:has(.shoptile){display:grid!important;grid-template-columns:repeat(auto-fill,minmax(150px,1fr));gap:8px;width:100%;max-width:640px}
+html body .item.shoptile{display:grid!important;grid-template-columns:52px 1fr;grid-template-rows:auto auto 1fr auto;column-gap:8px;row-gap:1px;align-items:start;text-align:left;min-height:96px;width:auto!important;height:auto!important;padding:8px!important}
+html body .item.shoptile>.art{grid-row:1/5;width:52px!important;height:52px!important;align-self:center}
+html body .item.shoptile .stn{font-size:15px!important;line-height:1.15;color:#f5e9d8}html body .item.shoptile .sty{font-size:13px!important;font-style:normal;color:#c9a227}
+html body .item.shoptile .sds{font-size:14px!important;line-height:1.2;color:#e6d6bd;white-space:normal}html body .item.shoptile .price{font-size:15px!important;font-weight:800;color:#ffd36a;justify-self:start}
+html body .item.shoptile.poor .price{color:#ff8a7a}
+/* G3 r2: 44px tap targets: relic and potion buttons, intent badge */
+html body .w485top{min-height:52px}html body .w485top .w485r,html body .w485top .pot,html body .pots .pot{width:44px!important;height:44px!important;min-width:44px;min-height:44px}
+html body.ec-stage #stage .intent{min-height:44px!important}
+html body .ov .grid{align-items:start;grid-auto-rows:max-content;display:grid!important;grid-template-columns:repeat(auto-fill,minmax(104px,1fr));justify-items:center;gap:8px}html body .ov .grid .card{--cw:104px}html body .ov .grid .card{height:calc(var(--cw)*1.4)!important;align-self:start}
+html body .ec-phase{top:44%}
 </style></head>

diff --git a/games-src/emberclimb/bench-newplayer.js b/games-src/emberclimb/bench-newplayer.js
@@ -1,0 +1,20 @@
+// G3 r2 balance bench: a "sensible new player" = the test bot, but on each battle move it plays a random playable card instead of
+// the best one with chance MISS (default 0.3), and never uses potions cleverly. Default Quick game (3 acts, opening gift), Warrior.
+// Reports: cleared floors 1-3 (alive on floor 4+), reached the act-1 boss, beat the act-1 boss. Run: node bench-newplayer.js [runs=300] [miss=0.3] [hero=w]
+const EC = require('./core.js'), E = EC.E; const N = +process.argv[2] || 300, MISS = process.argv[3] != null ? +process.argv[3] : 0.3, HERO = process.argv[4] || 'w';
+let f3 = 0, boss = 0, beat = 0, stuck = 0; const died = {};
+for (let i = 0; i < N; i++) {
+  E.newGame({ heroes: [HERO], acts: 3, bless: 1, seed: 9000 + i }); const G = E.G(); let rs = 77 + i, n = 0, reachedBoss = false;
+  const r = () => { rs = (rs * 1103515245 + 12345) & 0x7fffffff; return rs / 0x7fffffff; };
+  while (G.scr !== 'over' && G.act === 1 && n++ < 6000) {
+    if (G.b && G.b.kind === 'b') reachedBoss = true;
+    let m = E.aiMove(r);
+    if (G.scr === 'battle' && m && m.t === 'play' && r() < MISS) { const pl = E.validMoves().filter(v => v.t === 'play' || v.t === 'end'); m = pl[Math.floor(r() * pl.length)]; }
+    if (!m || !E.performMove(m)) { m = E.validMoves()[0]; if (!m || !E.performMove(m)) { if (G.b && G.b.ph === 'e') { E.settle(); continue; } stuck++; break; } }
+    if (G.b && G.b.ph === 'e') E.settle();
+  }
+  if (G.scr === 'over' && !G.won && G.act === 1) { const k = (G.b ? G.b.kind : '?') + G.floor; died[k] = (died[k] || 0) + 1; }
+  if (G.act > 1 || G.floor >= 4) f3++; if (reachedBoss || G.act > 1) boss++; if (G.act > 1 || (G.scr === 'over' && G.won)) beat++;
+}
+const pc = x => (100 * x / N).toFixed(0) + '%';
+console.log(`new-player bench (${HERO}, miss ${MISS}, ${N} runs): cleared floors 1-3 ${pc(f3)} | reached act-1 boss ${pc(boss)} | beat act-1 boss ${pc(beat)}${stuck ? ' | stuck ' + stuck : ''}`); if (process.env.DIED) console.log('deaths (room kind + floor):', JSON.stringify(died));

diff --git a/games-src/emberclimb/tools/act1-taps.js b/games-src/emberclimb/tools/act1-taps.js
@@ -27,7 +27,7 @@ const OUT = path.join(__dirname, '..', 'playable-shots', 'w494'); fs.mkdirSync(O
     if (s.scr === 'over') { result = 'lost on floor ' + s.floor + ' (act ' + s.act + ')'; break; }
     { const gb = await pg.$('.ec-goal button'); if (gb && await gb.isVisible()) { await T(gb); continue; } }
     if (s.mode === 'title') { if (await pg.$('#play')) await T('#play'); else { const q = await byText('#title button', /^Quick game/); if (q) await T(q); } continue; }
-    if (s.ov === 'smith' || s.ov === 'remove' || s.ov === 'evpick') { const c = await pg.$('.ov .grid .card'); if (c) await T(c); continue; }
+    if (s.ov === 'smith' || s.ov === 'remove' || s.ov === 'evpick') { const ok = await pg.$('#upg-ok'); if (ok) { await T(ok); continue; } const c = await pg.$('.ov .grid .card'); if (c) await T(c); continue; }   // upgrade: pick, see the preview, confirm
     if (s.ov) { const x = await pg.$('.ov .x'); if (x) await T(x); continue; }
     if (s.scr === 'map') {
       const pref = (s.hp < s.mhp * 0.55 ? ['r', 'v', 's', 't', 'm', 'e', 'b'] : ['s', 'r', 'v', 't', 'e', 'm', 'b']).sort((a, b) => (met[a] ? 1 : 0) - (met[b] ? 1 : 0));
@@ -37,7 +37,8 @@ const OUT = path.join(__dirname, '..', 'playable-shots', 'w494'); fs.mkdirSync(O
     if (s.scr === 'battle') {
       if (s.kind === 'b') await snap('boss');
       if (s.ph !== 'p' || s.busy) continue;
-      if (s.pots && s.hp < s.mhp * 0.5 && await pg.$('.pot.full')) { await T('.pot.full'); continue; }
+      if (await pg.$('.ec-potpop .potdrink')) { await T('.ec-potpop .potdrink'); continue; }
+      if (s.pots && s.hp < s.mhp * 0.5 && await pg.$('.pot.full')) { await T('.pot.full'); continue; }   // potion: tap it, then Drink
       const ok = await pg.$('.hand .card.ok');
       if (ok) { await T(ok); await sleep(200); if (await pg.$('.en.glow')) await T('.en.glow'); else { const sel = await pg.$('.hand .card.sel'); if (sel) await T(sel); } await sleep(300); }
       else await T('#end');

diff --git a/games-src/emberclimb/logic-test.js b/games-src/emberclimb/logic-test.js
@@ -137,5 +137,12 @@ rule(67, () => { E.newGame({ heroes: ['w'], seed: 67 }); const g0 = E.G(); g0.re
 rule(68, () => { const g = F(['w'], 68); const h = g.hs[0]; h.hand.forEach(c => { c.id = 'w-defend'; }); g.b.en[0].intent = { atk: 8, vuln: 2, tg: 0 }; h.blk = 10; const pv = E.previewHit(0, 0);
   E.performMove({ t: 'end' }); g.b.ph === 'e' && E.step(); return [[8, 999, 2], [pv, h.hp, h.st.vuln || 0]]; });
 
+// boss phase 2: at half HP the boss switches to its second pattern once, and its shown intent is re-planned from it
+rule(69, () => { E.newGame({ heroes: ['w'], seed: 69 }); E.debug.boss(); const g = E.G(), e = g.b.en[0], d = D.ENEMIES[e.id]; g.hs[0].hp = g.hs[0].mhp = 999; e.blk = 0; e.st = {}; e.hp = Math.floor(e.mhp / 2) + 3;
+  g.hs[0].hand.push(E.mk('w-strike')); g.hs[0].en = 3; E.performMove({ t: 'play', h: 0, c: g.hs[0].hand.length - 1, e: 0 }); const it = J(Object.assign({}, e.intent, { tg: undefined, die: undefined }));
+  return [[true, 1, true], [!!d.pat2, e.ph2, d.pat2.some(p => J(p) === it)]]; });
+// potion Discard: removes the potion on any screen, and is never offered to bots as a move
+rule(70, () => { E.newGame({ heroes: ['w'], seed: 70 }); const g = E.G(); g.pots = ['fire-flask', 'block-brew']; const ok = E.performMove({ t: 'toss', p: 0 }); return [[true, ['block-brew'], false], [ok, g.pots, E.validMoves().some(m => m.t === 'toss')]]; });
+
 console.log('RULES passing ' + pass + ' / ' + total + (fails.length ? '   failing: ' + fails.join(',') : ''));
 process.exit(fails.length ? 1 : 0);

diff --git a/games-src/emberclimb/rules-notes.md b/games-src/emberclimb/rules-notes.md
@@ -105,3 +105,8 @@ Re-checked against the tabletop rulebook text (online copy): Campfire Rest heals
 (x SCALE = 3); a Weak attacker on a Vulnerable target cancels both; one token used per whole attack; card / enemy text resolves top to bottom.
 All match the engine, so the numbers stay. Fixed: an enemy's debuff now lands after its own hit (logic rule 68); start-of-fight Block
 (Iron Bangle) lasts through round 1 (logic rule 67). In-game text now says what each status does ("Vulnerable 1: takes double damage").
+G3 round 2 (8 Nov 2026), shelf choices on top of the tabletop numbers, each one knob in data.js:
+- D.STRONGX = 1: after the first 3 fights of an act, an Encounter room keeps one extra foe (tabletop: one per hero), so floors 4-9 are not trivial.
+- Act-1 boss HP 118-124 (was 132-140). Bosses get a second pattern at half HP (pat2, banner "Phase 2" + new intent); the tabletop act-1 boss splits.
+- bench-newplayer.js (test bot, 30% random plays, default 3-act Quick game, Warrior, 300 runs): floors 1-3 cleared 95%, act-1 boss reached 76%,
+  beaten 28% (round start: 95 / 81 / 26). Test bot with no misplays: 99 / 89 / 59.
